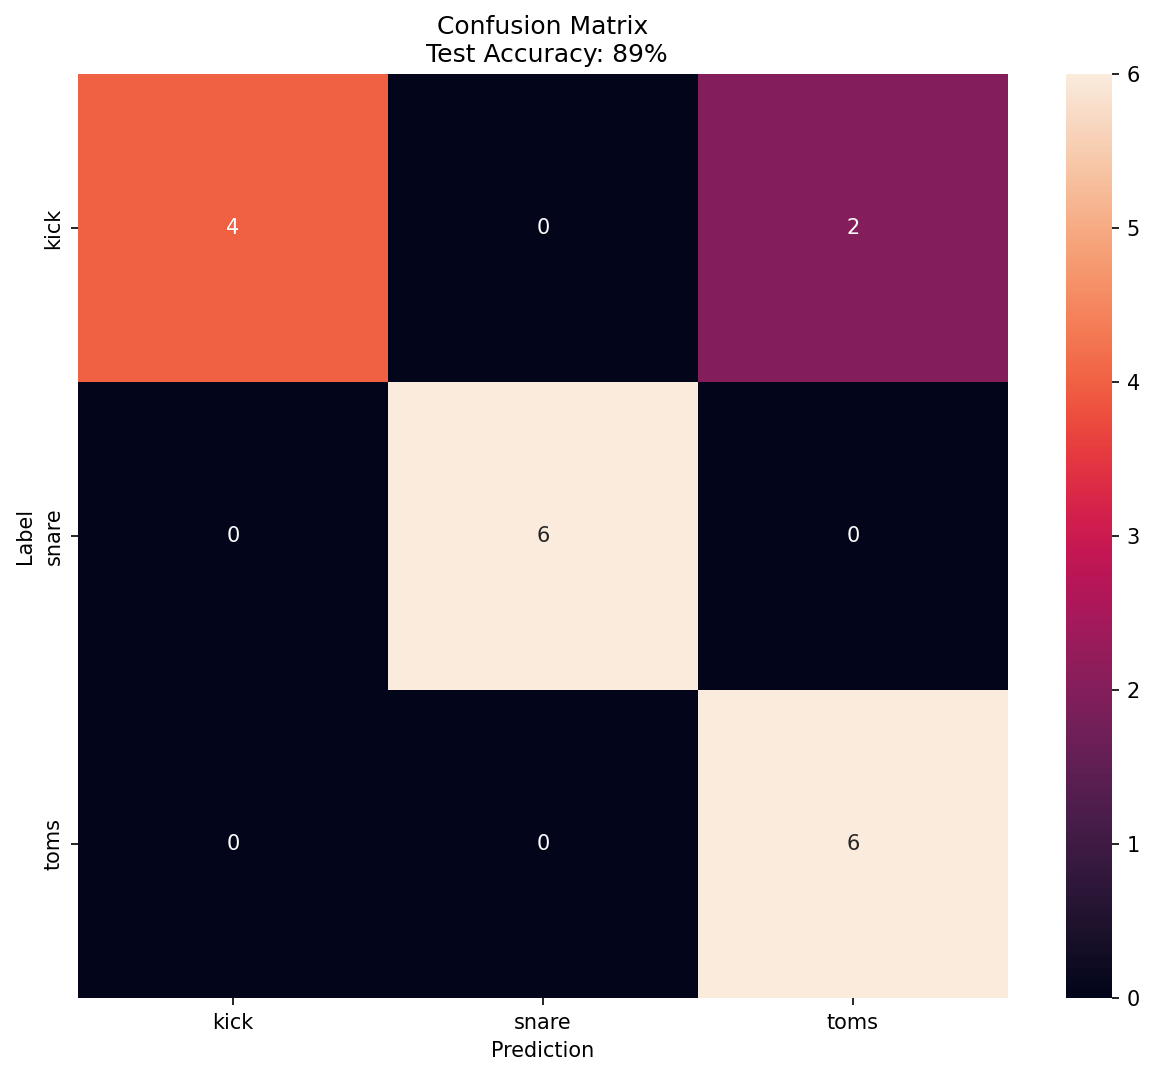
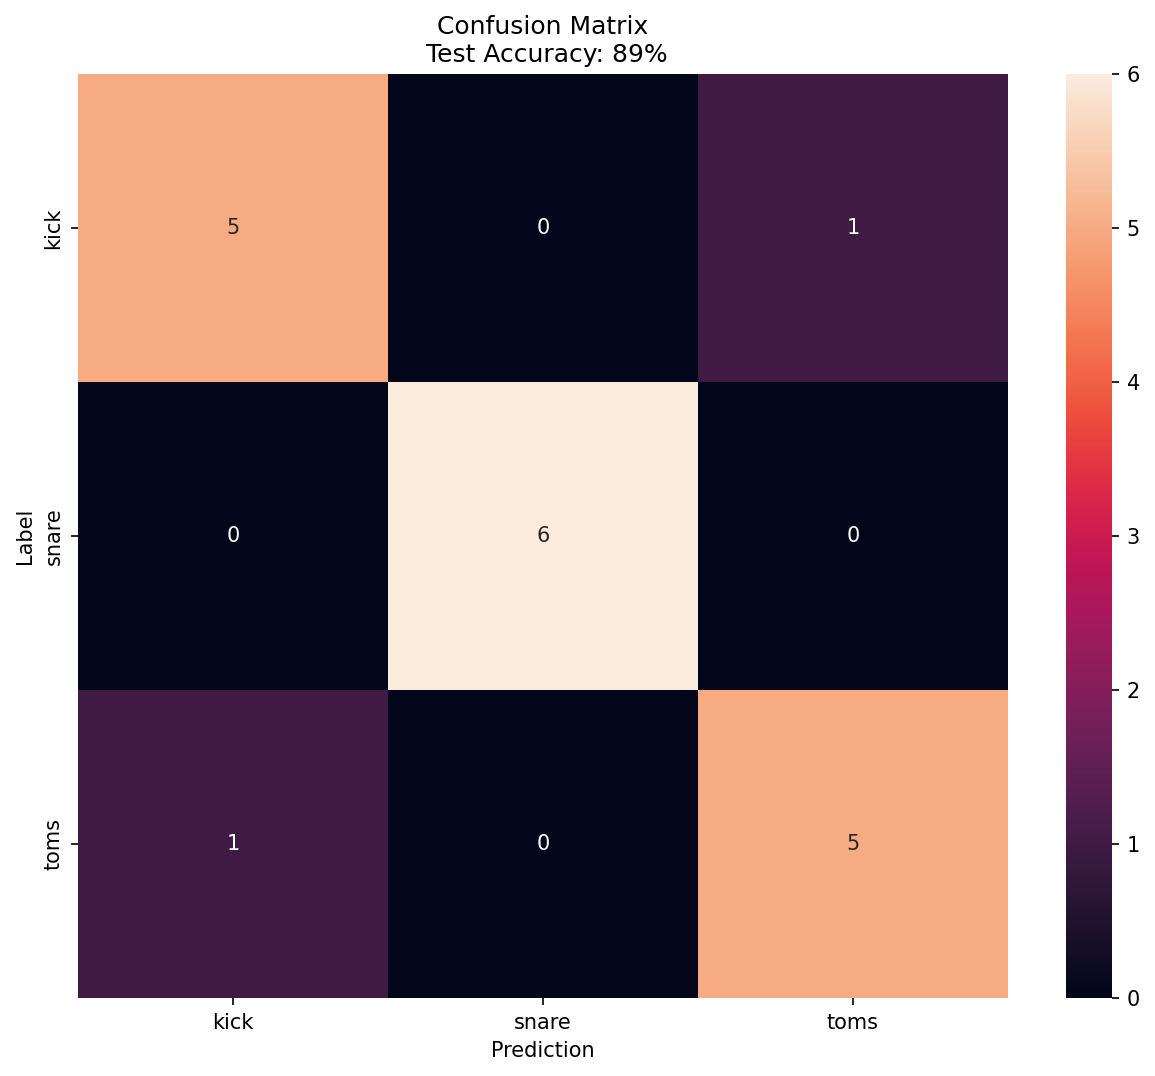
correções: data_augmentation e estratificacao

diff --git a/cnn_data_augmentation.py b/cnn_data_augmentation.py
@@ -45,21 +45,25 @@ def data_augmentation(name_step):
     vector = []
     for classe, valor in classes.items():
         path = "./Dataset/" + name_step + "/" + classe + "/"
-        for audio in os.listdir(path):
+        for audio in sorted(os.listdir(path)):
             if audio.endswith(".wav"):
                 # carregamento do áudio
                 y, sr = lb.load(os.path.join(path, audio), sr=sample_rate)
 
                 # modificação do áudio para o data augmentation
-                data_augmented.append((lb.effects.pitch_shift(
-                    y, sr=sr, n_steps=np.random.uniform(-2, 2)), valor))
-
+                y = lb.effects.pitch_shift(
+                    y, sr=sample_rate, n_steps=np.random.choice([-1.0, -0.5, 0.5, 1.0]))
+                
+                # Tratamento para normalização da duração do áudio em 2 segundos (44100*2 amostras)
                 y = duration_care(y)
 
-    for i, j in data_augmented:
+                # Tupla com os dados de áudio modificados e o valor da classe correspondente
+                data_augmented.append((y, valor))
+
+    for audio_augment, rotulo in data_augmented:
         melspec = lb.feature.melspectrogram(
-            y=i,
-            sr=sr,
+            y=audio_augment,
+            sr=sample_rate,
             n_mels=n_mels,
             fmax=fmax,
             n_fft=n_fft,
@@ -71,7 +75,7 @@ def data_augmentation(name_step):
         melspec_log = lb.power_to_db(melspec, ref=np.max)
 
         # retorno da tupla (espectrograma de Mel, valor da classe)
-        vector.append((melspec_log, j))
+        vector.append((melspec_log, rotulo))
 
     return vector
 
@@ -92,7 +96,7 @@ def melspectrogram(name_step, vector):
                 # cálculo do espectrograma de Mel
                 melspec = lb.feature.melspectrogram(
                     y=y,
-                    sr=sr,
+                    sr=sample_rate,
                     n_mels=n_mels,
                     fmax=fmax,
                     n_fft=n_fft,
@@ -110,26 +114,10 @@ def melspectrogram(name_step, vector):
 
 
 train = melspectrogram("train", train)
-print(len(train))
 
 data_aug = data_augmentation("train")
-print(len(data_aug))
-
-print(np.array_equal(
-    train[0][0],
-    data_aug[0][0]
-))
-
-print(
-    np.array_equal(
-        train[0][1],
-        data_aug[0][1]
-    ))
 
 train.extend(data_aug)
-
-print(len(train))
-
 
 test = melspectrogram("test", test)
 validation = melspectrogram("validation", validation)

diff --git a/estratificacao.py b/estratificacao.py
@@ -26,11 +26,11 @@ def delete_files(folder):
 
 
 def verification(classe):
-    if count_wavs(os.path.join(dir_train, classe)) == 0:
+    if count_wavs(os.path.join(dir_train, classe)) != 28:
         return False
-    if count_wavs(os.path.join(dir_validation, classe)) == 0:
+    if count_wavs(os.path.join(dir_validation, classe)) != 6:
         return False
-    if count_wavs(os.path.join(dir_test, classe)) == 0:
+    if count_wavs(os.path.join(dir_test, classe)) != 6:
         return False
     return True
 
@@ -75,17 +75,26 @@ def estratificacao(arquivos, classe):
         division_datasets(arquivos, classe)
 
         print(" Concluído:")
+        len_train = count_wavs(os.path.join(dir_train, classe))
+        len_validation = count_wavs(os.path.join(dir_validation, classe))
+        len_test = count_wavs(os.path.join(dir_test, classe))
+        print(f"Train: {count_wavs(os.path.join(dir_train, classe))}")
+        print(
+            f"Validation: {count_wavs(os.path.join(dir_validation, classe))}")
+        print(f"Test: {count_wavs(os.path.join(dir_test, classe))}")
+        return len_train + len_validation + len_test
+
+    else:
+        print(f"\n Estratificação já realizada para {classe}")
+        len_train = count_wavs(os.path.join(dir_train, classe))
+        len_validation = count_wavs(os.path.join(dir_validation, classe))
+        len_test = count_wavs(os.path.join(dir_test, classe))
         print(f"Train: {count_wavs(os.path.join(dir_train, classe))}")
         print(
             f"Validation: {count_wavs(os.path.join(dir_validation, classe))}")
         print(f"Test: {count_wavs(os.path.join(dir_test, classe))}")
 
-    else:
-        print(f"\n Estratificação já realizada para {classe}")
-        print(f"Train: {count_wavs(os.path.join(dir_train, classe))}")
-        print(
-            f"Validation: {count_wavs(os.path.join(dir_validation, classe))}")
-        print(f"Test: {count_wavs(os.path.join(dir_test, classe))}")
+        return len_train + len_validation + len_test
 
 
 dados = {
@@ -94,5 +103,10 @@ dados = {
     'toms': list_wavs(os.path.join(dataset_dir, 'toms'))
 }
 
+soma = 0
+
 for classe, arquivos in dados.items():
-    estratificacao(arquivos, classe)
+    i = estratificacao(arquivos, classe)
+    soma += i
+
+print(f"\nTotal de arquivos processados: {soma}")
